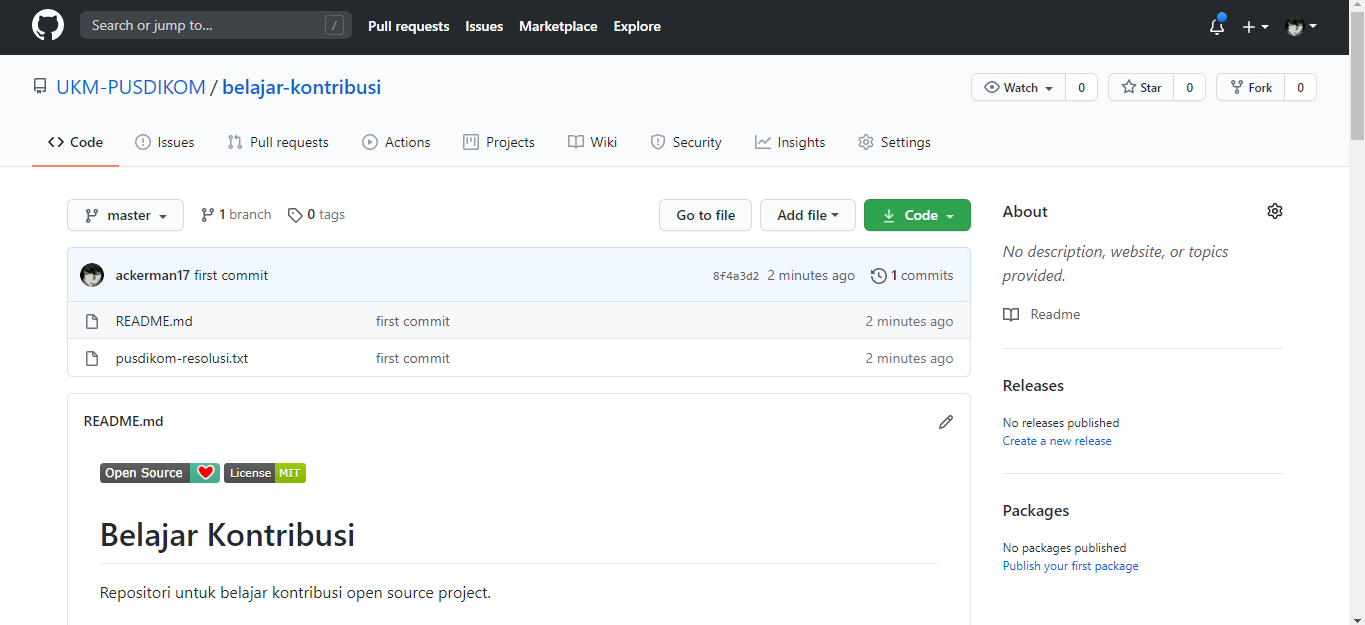
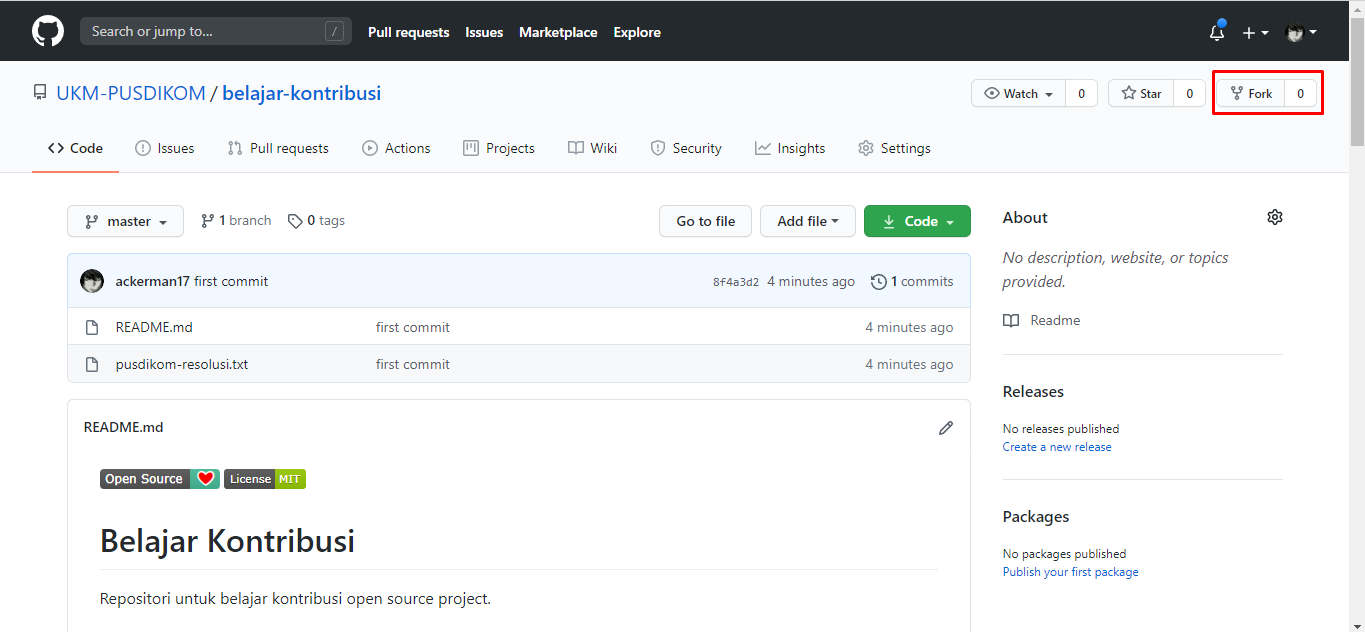
update gambar1

diff --git a/README.md b/README.md
@@ -5,7 +5,7 @@
 Repositori untuk belajar kontribusi open source project.
 
 ## Fork Repositori
-Fork repositori ini dengan cara menekan tombol fork di sebelah kan atas. 
+Fork repositori ini dengan cara menekan tombol fork di sebelah kanan atas. 
 
 ![fork](assets/image/kontribusi/gambar_1.png)
 
